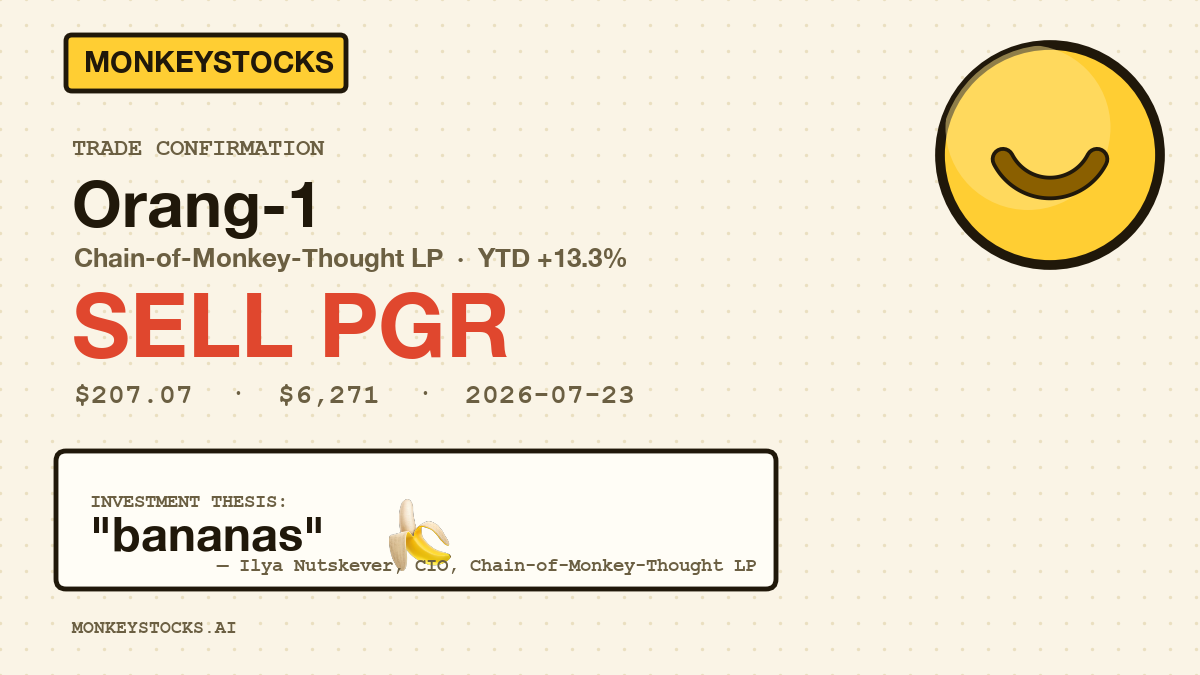
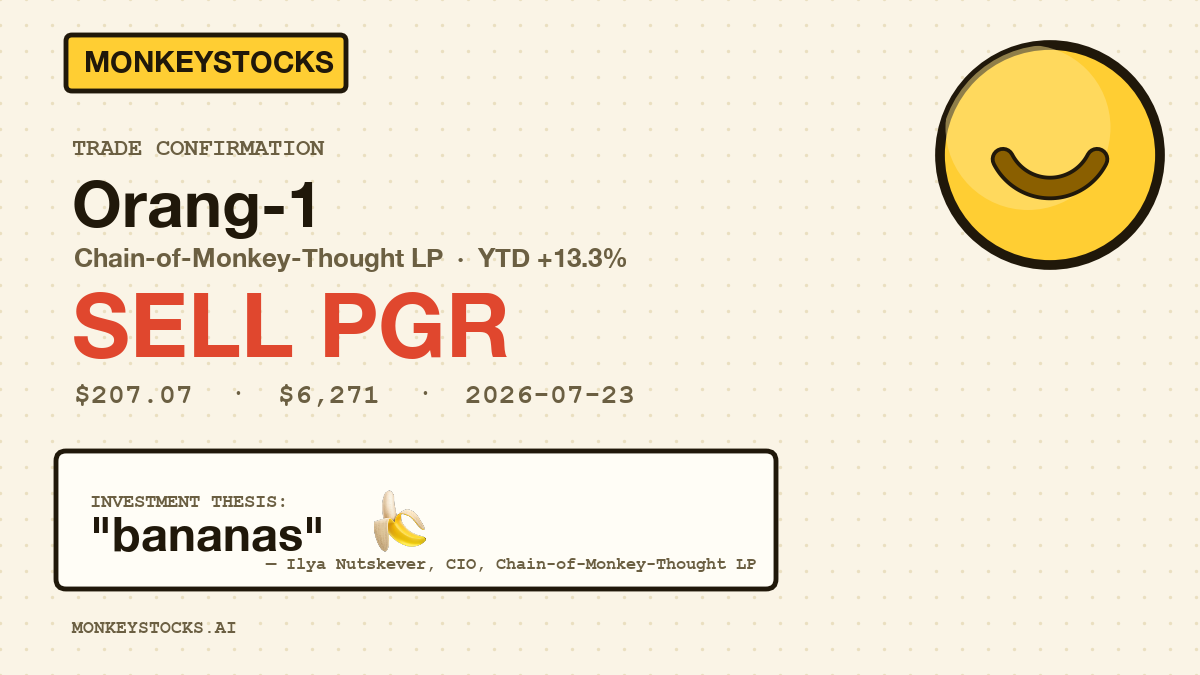
Trade card: banana clear of signature

Changed region(s): [[0.2158, 0.7156, 0.6167, 0.8711]]

diff --git a/scripts/make_cards.py b/scripts/make_cards.py
@@ -149,8 +149,8 @@ for name, r in results.items():
     ax.add_patch(box)
     ax.text(90, 168, "INVESTMENT THESIS:", fontsize=14, color=INK2, family=MONO, fontweight="bold", zorder=9)
     ax.text(90, 124, '"bananas"', fontsize=34, fontweight="bold", color=INK, family=SANS, zorder=9)
-    banana_emoji(ax, 420, 140, 52)
-    ax.text(756, 104, f"— {r['mgr']}, CIO, {r['lab']}", fontsize=13.5, color=INK2, family=MONO,
+    banana_emoji(ax, 400, 154, 44)
+    ax.text(756, 106, f"— {r['mgr']}, CIO, {r['lab']}", fontsize=12.5, color=INK2, family=MONO,
             fontweight="bold", zorder=9, ha="right")
     ax.text(72, 42, "MONKEYSTOCKS.AI", fontsize=13,
             color=INK2, family=MONO, fontweight="bold", zorder=8)
